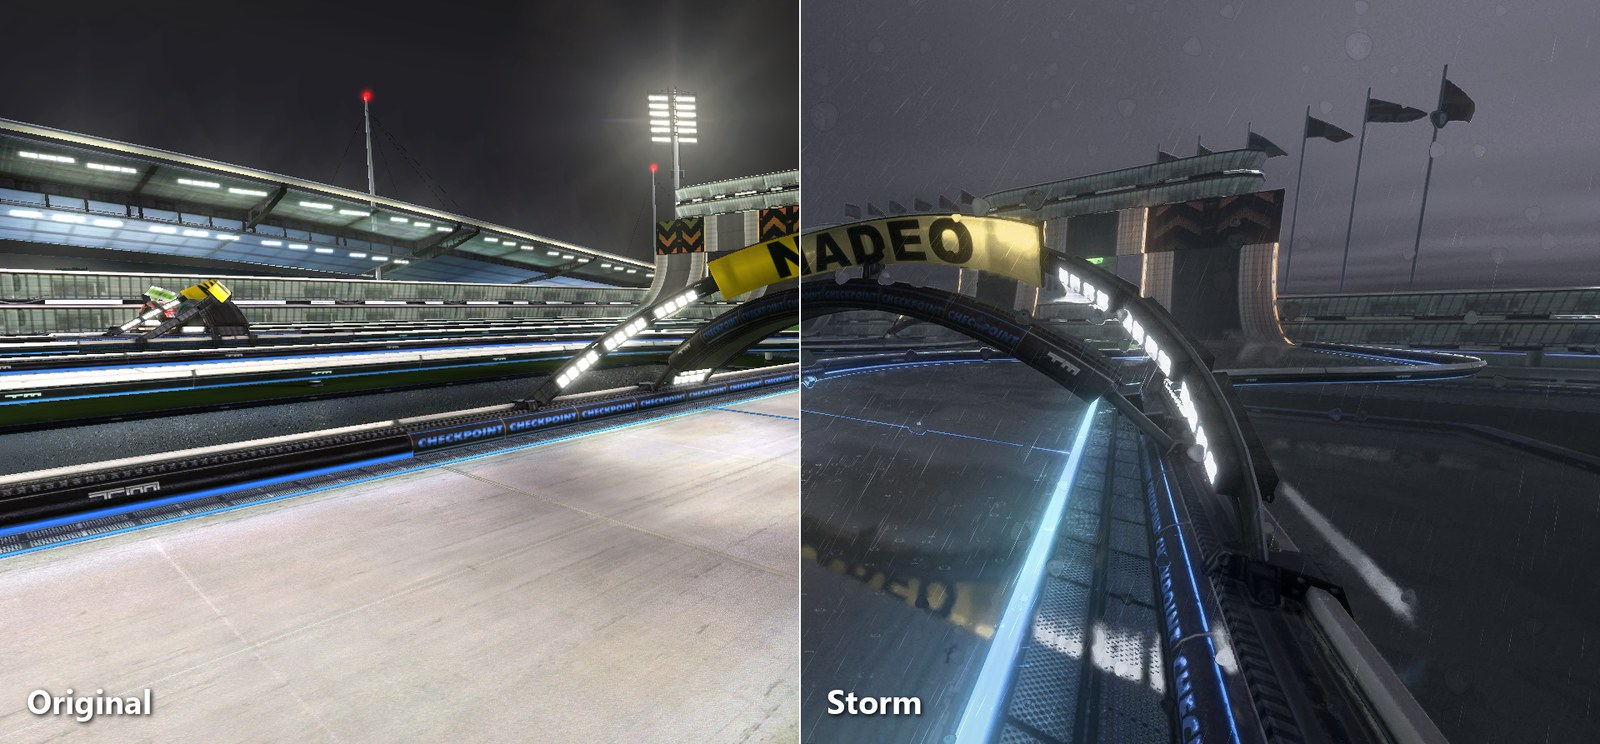
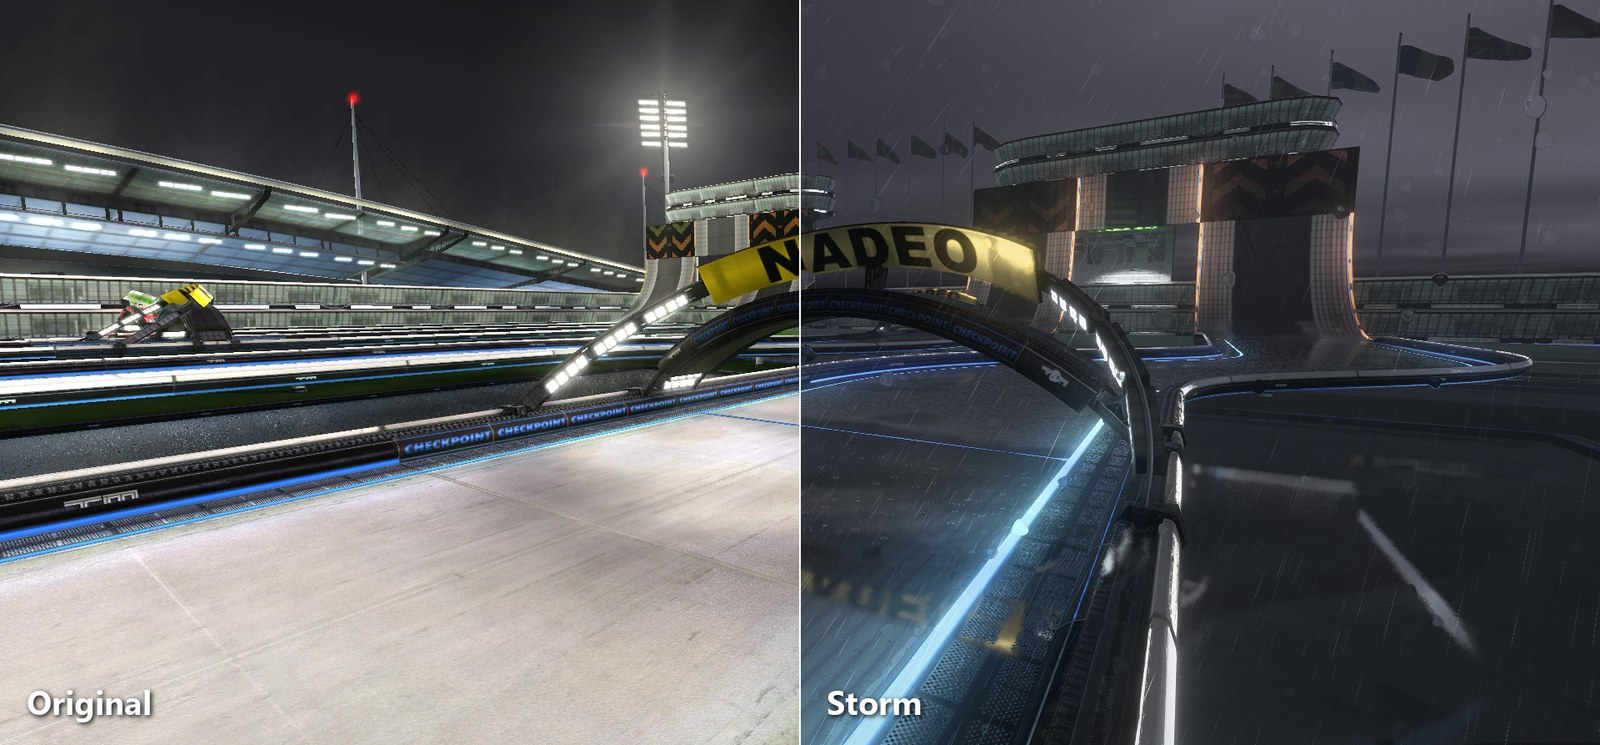
README: new aligned comparisons (Realistic, Storm), Realistic start as second cover image, image table reordered

diff --git a/README.md b/README.md
@@ -10,6 +10,8 @@
 
 ![Storm: rain on a wet Stadium track, the checkpoint mirrored in the road](docs/images/storm-checkpoint.jpg)
 
+![Realistic: the start line in the late sun, with haze and soft shadows](docs/images/realistic-start.jpg)
+
 A Direct3D 9 mod that lights the game again: shadows, ambient occlusion, light shafts, bounce light, glowing neon, rain with sound and lightning, wet roads with reflections, water, volumetric clouds and new skies. It draws inside the game's renderer, before the HUD, so the interface stays sharp. It works while driving, in replays and in the video export.
 
 **[Download the latest release](https://github.com/cheatoskar/TM-Vibrant-Shaders/releases/latest)** · [Install](#install) · [Features](#features) · [Presets](#presets) · [Controls](#controls) · [Documentation](#documentation)
@@ -47,13 +49,14 @@ Run the setup again to update or uninstall; your settings stay. Windows SmartScr
 | **Extras** | A neon light trail behind your car for the whole run. Track reflections up to a mirror finish. Grass detail and mowing stripes. |
 | **Comfort** | `F8` menu with a *Simple* and an *Advanced* view. Auto quality holds your frame rate. A live per-effect cost panel. A preset per map mood (day, sunset, night). Your own presets as shareable text files. |
 
-![On the rings of a gas giant, with a black hole in the sky](docs/images/ring-world.jpg)
+![Original and Realistic](docs/images/compare-realistic.jpg)
+
+![Original and Storm](docs/images/compare-rain.jpg)
 
 | | |
 |---|---|
 | ![Sunset: original and Vibrant](docs/images/compare-sunset.jpg) | ![Day: original and Golden Hour](docs/images/compare-day.jpg) |
-| ![Original and Realistic](docs/images/compare-realistic.jpg) | ![Original and Storm](docs/images/compare-rain.jpg) |
-| ![Night: original and Neon](docs/images/compare-night.jpg) | ![Horizon: the Ring World sky at night](docs/images/event-horizon.jpg) |
+| ![Night: original and Neon](docs/images/compare-night.jpg) | ![On the rings of a gas giant, with a black hole in the sky](docs/images/ring-world.jpg) |
 | ![Black hole](docs/images/black-hole.jpg) | ![Aurora](docs/images/aurora.jpg) |
 
 ---
